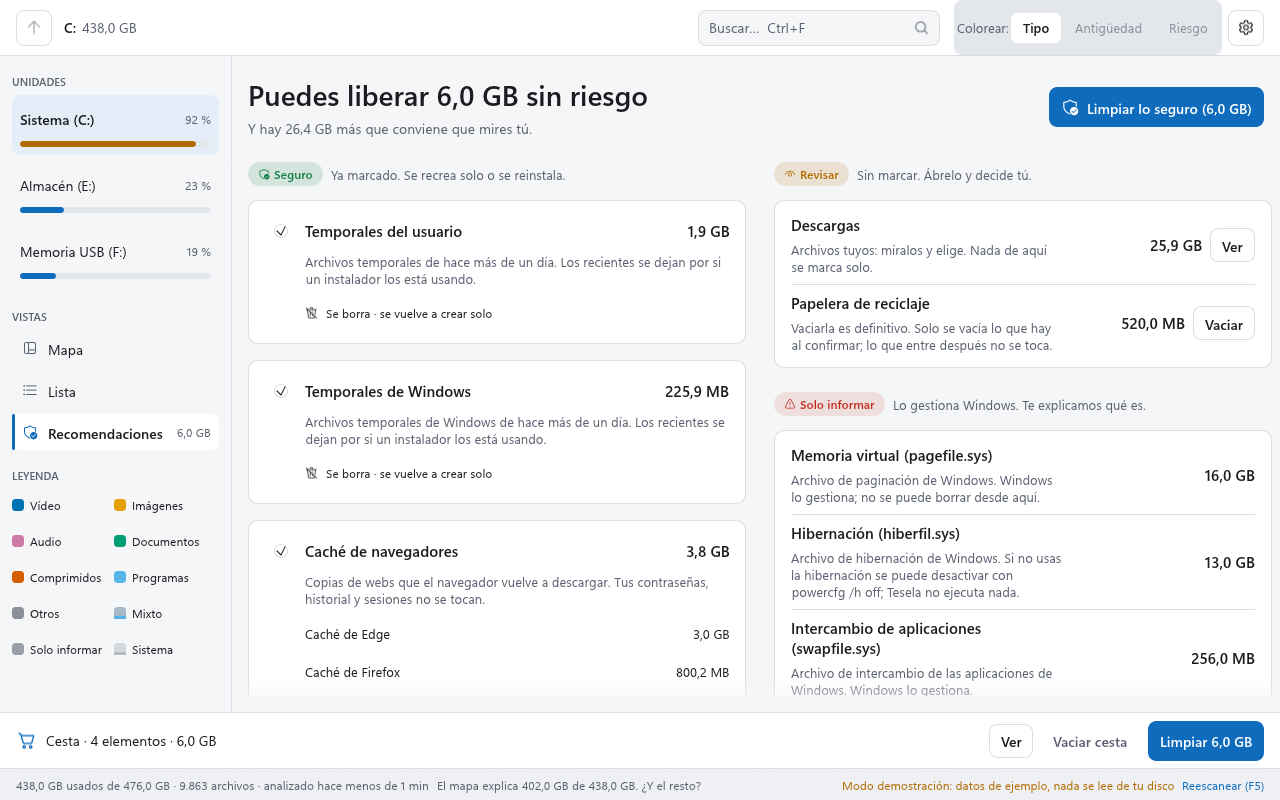
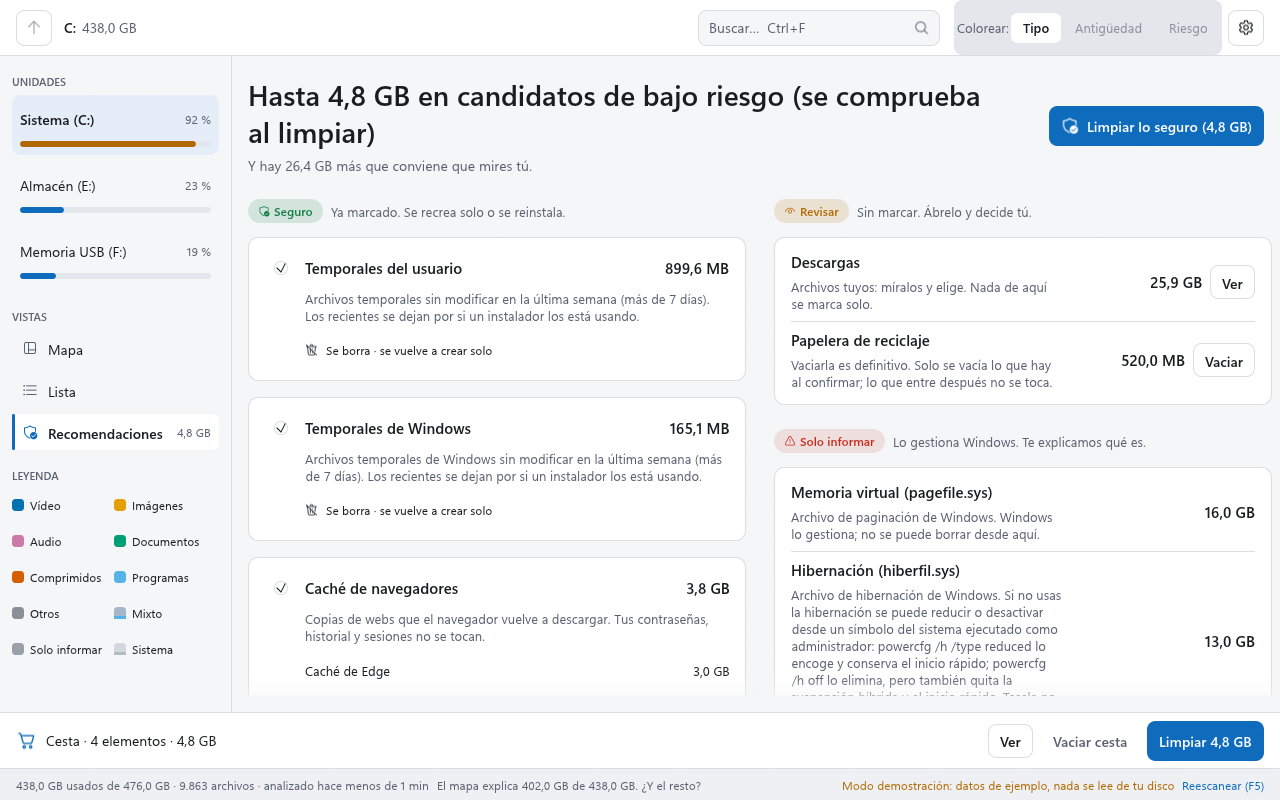
docs(img): capturas regeneradas con los textos nuevos y la regla de 7 dias (R-2)
recomendaciones.png y resumen.png mostraban "Puedes liberar 6,0 GB sin riesgo" y "Liberados ahora"; confirmacion.png, el
boton "Liberar X". Y mapa-claro.png y mapa-oscuro.png cambian tambien: el contador de Recomendaciones del panel
lateral baja de 6,0 a 4,8 GB con la regla de temporales de 7 dias. Las cinco se regeneran con la orden registrada en
`docs/img/README.md` (solo `--demo`: datos sinteticos, framebuffer de la ventana, sin metadatos), se comprueba que
solo contienen datos de la demostracion y se actualizan sus SHA-256; `privacy-check -All` las valida.

diff --git a/docs/img/README.md b/docs/img/README.md
@@ -15,8 +15,8 @@ El hash va con la imagen: si cambia un solo byte hay que volver a registrarla (`
 
 ## Imágenes registradas
 
-- mapa-claro.png | sha256: 53875e4cd8c00b57935cbf10a614a9a3f49430c663aefbeade01cf72ec10067c | `cargo run -p tesela-app --features capture -- --demo --screen map --open Users/usuario --select Descargas --theme light --lang es --size 1280x800 --screenshot docs/img/mapa-claro.png --overwrite`
-- mapa-oscuro.png | sha256: b3a431728b860853484cb70a339f5398fb11165cb3cb46d0193262e96e7f9c66 | `cargo run -p tesela-app --features capture -- --demo --screen map --theme dark --lang es --size 1280x800 --screenshot docs/img/mapa-oscuro.png --overwrite`
-- recomendaciones.png | sha256: 1392d5ff921dba0138300cb4755f2edb8333502ba95dfe3e719f44483e43dac1 | `cargo run -p tesela-app --features capture -- --demo --screen recs --theme light --lang es --size 1280x800 --screenshot docs/img/recomendaciones.png`
-- confirmacion.png | sha256: 08db178df8af19d6c64480e6f7e0752f3885e9f92b1b3ce9f688dfdb1c6e7cc0 | `cargo run -p tesela-app --features capture -- --demo --screen confirm --theme light --lang es --size 1280x800 --screenshot docs/img/confirmacion.png`
-- resumen.png | sha256: 4114a563bbbf12aa10d8c57cf1138f0df723efa259feea22a0b40a33796ad067 | `cargo run -p tesela-app --features capture -- --demo --screen summary --theme light --lang es --size 1280x800 --screenshot docs/img/resumen.png`
+- mapa-claro.png | sha256: 86c3498396bfe928dc2f44a94a495764dd42b9131b298f3b9e70f0fd84185455 | `cargo run -p tesela-app --features capture -- --demo --screen map --open Users/usuario --select Descargas --theme light --lang es --size 1280x800 --screenshot docs/img/mapa-claro.png --overwrite`
+- mapa-oscuro.png | sha256: 0daf7d45071889963e0b5fa510cddd739d0df806bd890a4ac94789c349a5ec3d | `cargo run -p tesela-app --features capture -- --demo --screen map --theme dark --lang es --size 1280x800 --screenshot docs/img/mapa-oscuro.png --overwrite`
+- recomendaciones.png | sha256: 7190f6cd883ca083b3d99fd728f9f5e74e087def35d7761f0116babd1de5c50c | `cargo run -p tesela-app --features capture -- --demo --screen recs --theme light --lang es --size 1280x800 --screenshot docs/img/recomendaciones.png`
+- confirmacion.png | sha256: 9e22cfe21c7fa317fb7ce440398f21a700418c86dff752144b14b78c8c0871ad | `cargo run -p tesela-app --features capture -- --demo --screen confirm --theme light --lang es --size 1280x800 --screenshot docs/img/confirmacion.png`
+- resumen.png | sha256: 2a1b8337900915992cb6aa928b4f13823e9202536b09452de0ca77a9eb6fdfc0 | `cargo run -p tesela-app --features capture -- --demo --screen summary --theme light --lang es --size 1280x800 --screenshot docs/img/resumen.png`
